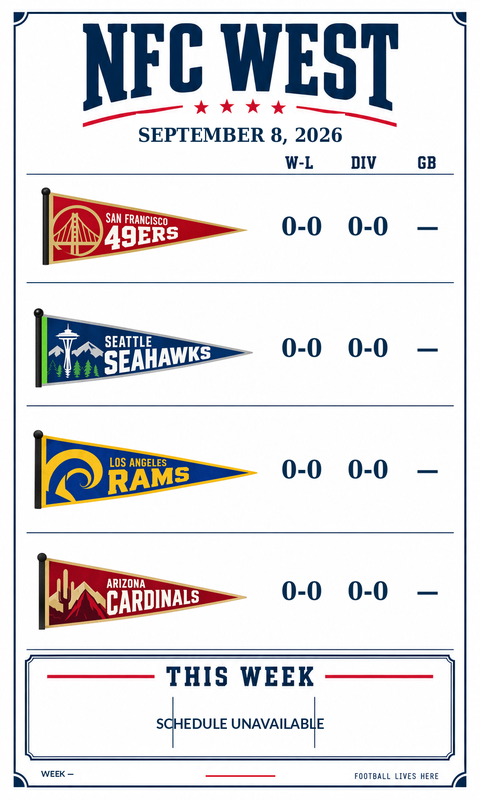
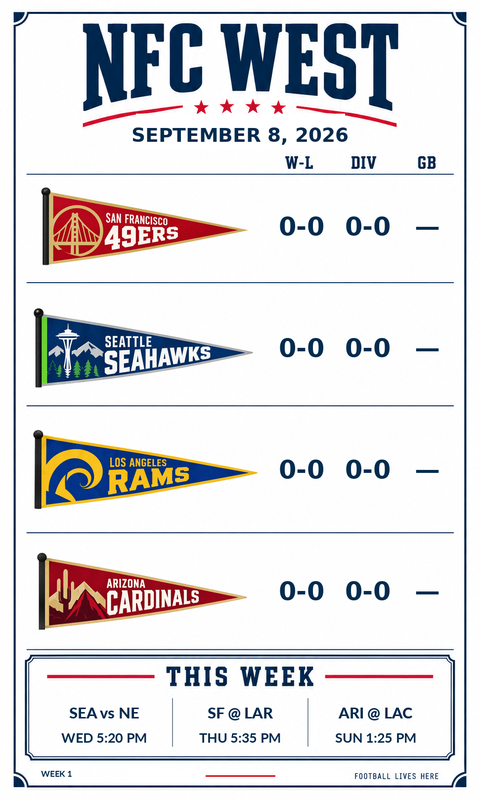
Read NFC West data from nflverse games.csv instead of ESPN
ESPN's site API returns 403 to GitHub Actions runners, so every scheduled
render fell back to zeroed standings and SCHEDULE UNAVAILABLE — the display
has never shown live data from CI.

Replace both ESPN endpoints with nflverse's games.csv, a static file served
off GitHub with no key, quota, or user-agent gate. It carries every scheduled
and completed game, so standings are now computed from finished regular-season
games rather than parsed out of a standings feed, which also removes the
alias-guessing _stat() helper and its nested-shape entry walker.

Notes:
  * nflverse abbreviates the Rams "LA"; TEAM_ALIASES maps it to the "LAR"
    the artwork and layout use.
  * gametime is a bare HH:MM in US Eastern, converted to Pacific on read.
  * The headline week is the next one with a game left to play, judged across
    the league so a week with all four clubs on bye still reports its number.
    A six-hour grace keeps games showing while they are being played.
  * January and February belong to the previous season; an unpublished season
    falls back to the newest one in the file.

Verified against real data: 2024 and 2023 final NFC West standings and
division records reproduce exactly, week selection tracks correctly from
preseason through the Super Bowl, and the live path now renders the real
Week 1 schedule.

Clubs tied on winning percentage still fall back to a fixed order rather than
the NFL's full tiebreaker sequence, unchanged from the ESPN implementation.
[…]

diff --git a/render_nfl.py b/render_nfl.py
@@ -9,13 +9,17 @@ Static artwork lives in ``assets/nfl/``. Dynamic overlays are:
   * NFC West W-L, division record, and games behind
   * the current NFL week's NFC West matchups and Pacific kickoff times
 
-Data is keyless and fetched from ESPN's public NFL JSON feeds. Set
-``NFL_SAMPLE=1`` for a deterministic 2026 Week 1 layout test.
+Schedules and results come from nflverse's ``games.csv``, a keyless static file
+served off GitHub. Standings are computed from completed regular-season games
+rather than read from a standings feed. Set ``NFL_SAMPLE=1`` for a
+deterministic 2026 Week 1 layout test.
 """
 from __future__ import annotations
 
+import csv
+import io
 import os
-from datetime import datetime
+from datetime import datetime, timedelta
 from pathlib import Path
 from zoneinfo import ZoneInfo
 
@@ -30,11 +34,17 @@ OUT = ROOT / "public" / "nfl_nfc_west.png"
 DISPLAY_TZ = ZoneInfo("America/Los_Angeles")
 DEVICE_OUTPUT_SIZE = (480, 800)
 
-ESPN_STANDINGS = "https://site.api.espn.com/apis/v2/sports/football/nfl/standings"
-ESPN_SCOREBOARD = "https://site.api.espn.com/apis/site/v2/sports/football/nfl/scoreboard"
+# nflverse publishes every scheduled and completed game in one CSV. It is a
+# plain file on GitHub, not an API, so there is no key, quota, or user-agent
+# gate to trip over on a CI runner.
+GAMES_CSV = "https://raw.githubusercontent.com/nflverse/nfldata/master/data/games.csv"
+# The file's `gametime` column is a bare HH:MM in US Eastern.
+SOURCE_TZ = ZoneInfo("America/New_York")
 
 NFC_WEST = ("SF", "SEA", "LAR", "ARI")
 TIE_ORDER = {abbr: i for i, abbr in enumerate(NFC_WEST)}
+# nflverse abbreviates the Rams "LA"; the artwork and layout use "LAR".
+TEAM_ALIASES = {"LA": "LAR"}
 
 NAVY = (4, 43, 78)
 GREY = (118, 135, 148)
@@ -49,6 +59,10 @@ STAT_X = (610, 744, 865)  # W-L, DIV, GB
 DATE_X, DATE_Y = 486, 273
 PENNANT_LEFT = 48
 PENNANT_MAX_SIZE = (487, 182)
+
+# A game still counts as "this week" for a while after kickoff so the display
+# does not roll forward mid-afternoon while games are being played.
+IN_PROGRESS_GRACE = timedelta(hours=6)
 
 
 def load_font(path: str, size: int):
@@ -70,43 +84,111 @@ def http_session() -> requests.Session:
     return s
 
 
-def _stat(entry: dict, aliases: tuple[str, ...], default=None):
-    wanted = {x.lower() for x in aliases}
-    for stat in entry.get("stats", []):
-        names = {
-            str(stat.get("name", "")).lower(),
-            str(stat.get("abbreviation", "")).lower(),
-            str(stat.get("shortDisplayName", "")).lower(),
-        }
-        if names & wanted:
-            # displayValue is preferable for records such as "2-1".
-            if stat.get("displayValue") is not None and any(
-                x in wanted for x in ("divisionrecord", "div", "division")
-            ):
-                return stat["displayValue"]
-            if stat.get("value") is not None:
-                return stat["value"]
-            return stat.get("displayValue", default)
-    return default
+def team(abbr: str) -> str:
+    return TEAM_ALIASES.get(abbr, abbr)
 
 
-def _standings_entries(node):
-    """Yield ESPN standings entries without relying on one group nesting shape."""
-    if isinstance(node, dict):
-        standings = node.get("standings")
-        if isinstance(standings, dict) and isinstance(standings.get("entries"), list):
-            yield from standings["entries"]
-        for value in node.values():
-            yield from _standings_entries(value)
-    elif isinstance(node, list):
-        for value in node:
-            yield from _standings_entries(value)
+def season_for(now: datetime) -> int:
+    """The NFL season a date belongs to; January and February are last year's."""
+    return now.year - 1 if now.month < 3 else now.year
+
+
+def _kickoff(gameday: str, gametime: str) -> datetime | None:
+    try:
+        naive = datetime.strptime(f"{gameday} {gametime}", "%Y-%m-%d %H:%M")
+    except ValueError:
+        return None
+    return naive.replace(tzinfo=SOURCE_TZ).astimezone(DISPLAY_TZ)
+
+
+def _score(value: str) -> int | None:
+    try:
+        return int(value)
+    except (TypeError, ValueError):
+        return None
+
+
+def fetch_games(season: int) -> list[dict]:
+    """Every game in `season`, normalised to the abbreviations the layout uses.
+
+    Falls back to the newest season in the file when `season` is not published
+    yet — the schedule usually lands in spring, months after the season flips.
+    """
+    response = http_session().get(GAMES_CSV, timeout=30)
+    response.raise_for_status()
+
+    by_season: dict[int, list[dict]] = {}
+    for row in csv.DictReader(io.StringIO(response.text)):
+        try:
+            row_season = int(row["season"])
+            week = int(row["week"])
+        except (KeyError, TypeError, ValueError):
+            continue
+        kickoff = _kickoff(row.get("gameday", ""), row.get("gametime", ""))
+        if kickoff is None:
+            continue
+        home, away = _score(row.get("home_score", "")), _score(row.get("away_score", ""))
+        by_season.setdefault(row_season, []).append({
+            "week": week,
+            "game_type": row.get("game_type", ""),
+            "dt": kickoff,
+            "home": team(row.get("home_team", "")),
+            "away": team(row.get("away_team", "")),
+            "home_score": home,
+            "away_score": away,
+            "played": home is not None and away is not None,
+            "div_game": row.get("div_game", "") == "1",
+        })
+
+    if not by_season:
+        return []
+    games = by_season.get(season)
+    if games is None:
+        games = by_season[max(by_season)]
+    return sorted(games, key=lambda g: g["dt"])
+
+
+def compute_standings(games: list[dict]) -> list[dict]:
+    """Build NFC West records from completed regular-season games."""
+    tally = {
+        abbr: {"abbr": abbr, "wins": 0, "losses": 0, "ties": 0,
+               "div_wins": 0, "div_losses": 0, "div_ties": 0}
+        for abbr in NFC_WEST
+    }
+
+    for game in games:
+        if game["game_type"] != "REG" or not game["played"]:
+            continue
+        sides = (
+            (game["home"], game["home_score"], game["away_score"]),
+            (game["away"], game["away_score"], game["home_score"]),
+        )
+        for abbr, scored, allowed in sides:
+            row = tally.get(abbr)
+            if row is None:
+                continue
+            if scored > allowed:
+                outcome = "wins"
+            elif scored < allowed:
+                outcome = "losses"
+            else:
+                outcome = "ties"
+            row[outcome] += 1
+            if game["div_game"]:
+                row[f"div_{outcome}"] += 1
+
+    return _finalize_standings(list(tally.values()))
+
+
+def _record(wins: int, losses: int, ties: int) -> str:
+    return f"{wins}-{losses}" + (f"-{ties}" if ties else "")
 
 
 def _finalize_standings(rows: list[dict]) -> list[dict]:
     by_team = {r["abbr"]: r for r in rows}
     for abbr in NFC_WEST:
-        by_team.setdefault(abbr, {"abbr": abbr, "wins": 0, "losses": 0, "ties": 0, "div": "0-0"})
+        by_team.setdefault(abbr, {"abbr": abbr, "wins": 0, "losses": 0, "ties": 0,
+                                  "div_wins": 0, "div_losses": 0, "div_ties": 0})
 
     def pct(r):
         games = r["wins"] + r["losses"] + r["ties"]
@@ -118,77 +200,48 @@ def _finalize_standings(rows: list[dict]) -> list[dict]:
     )
     leader = ordered[0]
     for row in ordered:
-        row["wl"] = f"{row['wins']}-{row['losses']}" + (f"-{row['ties']}" if row["ties"] else "")
+        row["wl"] = _record(row["wins"], row["losses"], row["ties"])
+        row["div"] = _record(row.get("div_wins", 0), row.get("div_losses", 0), row.get("div_ties", 0))
         gb = ((leader["wins"] - row["wins"]) + (row["losses"] - leader["losses"])) / 2.0
         row["gb"] = "—" if gb <= 0 else (str(int(gb)) if gb.is_integer() else f"{gb:.1f}")
     return ordered
 
 
-def fetch_standings(season: int) -> list[dict]:
-    if os.getenv("NFL_SAMPLE") == "1":
-        return _finalize_standings([
-            {"abbr": a, "wins": 0, "losses": 0, "ties": 0, "div": "0-0"} for a in NFC_WEST
-        ])
+def current_week(games: list[dict], now: datetime) -> int | None:
+    """The week to headline: the next one with a game left to play.
 
-    response = http_session().get(
-        ESPN_STANDINGS,
-        params={"season": season, "seasontype": 2},
-        timeout=20,
-    )
-    response.raise_for_status()
-
-    found = []
-    seen = set()
-    for entry in _standings_entries(response.json()):
-        abbr = (entry.get("team") or {}).get("abbreviation")
-        if abbr not in NFC_WEST or abbr in seen:
-            continue
-        seen.add(abbr)
-        found.append({
-            "abbr": abbr,
-            "wins": int(float(_stat(entry, ("wins", "w"), 0) or 0)),
-            "losses": int(float(_stat(entry, ("losses", "l"), 0) or 0)),
-            "ties": int(float(_stat(entry, ("ties", "t"), 0) or 0)),
-            "div": str(_stat(entry, ("divisionrecord", "div", "division"), "0-0")),
-        })
-    return _finalize_standings(found)
+    Judged across the whole league, not just the NFC West, so a week in which
+    all four clubs are on bye still reports its own number.
+    """
+    remaining = [g["week"] for g in games if g["dt"] >= now - IN_PROGRESS_GRACE]
+    if remaining:
+        return min(remaining)
+    return max((g["week"] for g in games), default=None)
 
 
-def sample_schedule():
-    return 1, [
-        {"away": "NE", "home": "SEA", "dt": datetime(2026, 9, 9, 17, 20, tzinfo=DISPLAY_TZ)},
-        {"away": "SF", "home": "LAR", "dt": datetime(2026, 9, 10, 17, 35, tzinfo=DISPLAY_TZ)},
-        {"away": "ARI", "home": "LAC", "dt": datetime(2026, 9, 13, 13, 25, tzinfo=DISPLAY_TZ)},
+def week_schedule(games: list[dict], week: int | None) -> list[dict]:
+    if week is None:
+        return []
+    division = set(NFC_WEST)
+    return [
+        g for g in games
+        if g["week"] == week and ({g["home"], g["away"]} & division)
     ]
 
 
-def fetch_week_schedule() -> tuple[int | None, list[dict]]:
-    if os.getenv("NFL_SAMPLE") == "1":
-        return sample_schedule()
-
-    response = http_session().get(ESPN_SCOREBOARD, params={"limit": 100}, timeout=20)
-    response.raise_for_status()
-    payload = response.json()
-    week = (payload.get("week") or {}).get("number")
-    games = []
-
-    for event in payload.get("events", []):
-        competition = (event.get("competitions") or [{}])[0]
-        competitors = competition.get("competitors") or []
-        by_side = {c.get("homeAway"): c for c in competitors}
-        home = ((by_side.get("home") or {}).get("team") or {}).get("abbreviation")
-        away = ((by_side.get("away") or {}).get("team") or {}).get("abbreviation")
-        if not home or not away or not ({home, away} & set(NFC_WEST)):
-            continue
-        try:
-            kickoff = datetime.fromisoformat(event["date"].replace("Z", "+00:00")).astimezone(DISPLAY_TZ)
-        except (KeyError, TypeError, ValueError):
-            continue
-        games.append({"away": away, "home": home, "dt": kickoff})
-
-    # One SF-LAR event should appear once, not once for each NFC West club.
-    unique = {(g["away"], g["home"], g["dt"].isoformat()): g for g in games}
-    return week, sorted(unique.values(), key=lambda g: g["dt"])
+def sample_season() -> tuple[list[dict], int]:
+    """Deterministic 2026 Week 1 stand-in for layout tests."""
+    games = [
+        {"week": 1, "game_type": "REG", "away": "NE", "home": "SEA",
+         "dt": datetime(2026, 9, 9, 17, 20, tzinfo=DISPLAY_TZ)},
+        {"week": 1, "game_type": "REG", "away": "SF", "home": "LAR",
+         "dt": datetime(2026, 9, 10, 17, 35, tzinfo=DISPLAY_TZ)},
+        {"week": 1, "game_type": "REG", "away": "ARI", "home": "LAC",
+         "dt": datetime(2026, 9, 13, 13, 25, tzinfo=DISPLAY_TZ)},
+    ]
+    for game in games:
+        game.update(home_score=None, away_score=None, played=False, div_game=False)
+    return games, 1
 
 
 def matchup_label(game: dict) -> str:
@@ -267,27 +320,27 @@ def render(standings: list[dict], week: int | None, games: list[dict], now: date
 
 def main():
     now = datetime.now(DISPLAY_TZ)
-    try:
-        standings = fetch_standings(now.year)
-    except Exception as exc:
-        print(f"WARNING: standings fetch failed: {exc}")
-        standings = _finalize_standings([
-            {"abbr": a, "wins": 0, "losses": 0, "ties": 0, "div": "0-0"} for a in NFC_WEST
-        ])
 
-    try:
-        week, games = fetch_week_schedule()
-    except Exception as exc:
-        print(f"WARNING: schedule fetch failed: {exc}")
-        week, games = None, []
+    if os.getenv("NFL_SAMPLE") == "1":
+        games, week = sample_season()
+    else:
+        try:
+            games = fetch_games(season_for(now))
+            week = current_week(games, now)
+        except Exception as exc:
+            print(f"WARNING: nflverse fetch failed: {exc}")
+            games, week = [], None
 
-    print(f"NFC West render {now:%Y-%m-%d %H:%M %Z}")
+    standings = compute_standings(games)
+    schedule = week_schedule(games, week)
+
+    print(f"NFC West render {now:%Y-%m-%d %H:%M %Z} — week {week or '—'}")
     for row in standings:
         print(f"  {row['abbr']:3s} {row['wl']:6s} DIV {row['div']:6s} GB {row['gb']}")
-    for game in games:
+    for game in schedule:
         print(f"  {matchup_label(game):12s} {game['dt']:%a %Y-%m-%d %-I:%M %p %Z}")
 
-    output = render(standings, week, games, now)
+    output = render(standings, week, schedule, now)
     OUT.parent.mkdir(parents=True, exist_ok=True)
     output.save(OUT, format="PNG", optimize=True)
     print(f"Wrote {OUT} ({output.size[0]}x{output.size[1]})")

diff --git a/README.md b/README.md
@@ -27,7 +27,9 @@ Output: `public/mlb_nl_west.png`
 - games behind the division leader
 - the current week's unique NFC West matchups and Pacific kickoff times
 
-Standings and schedule data come from ESPN's keyless NFL JSON feeds. The renderer keeps the MLB implementation's 971x1619 master -> 480x800 E1002 downsample path.
+Schedule and result data come from [nflverse's `games.csv`](https://github.com/nflverse/nfldata), a keyless static file served off GitHub — no API key, quota, or user-agent gate. Standings are computed from completed regular-season games rather than read from a standings feed. The renderer keeps the MLB implementation's 971x1619 master -> 480x800 E1002 downsample path.
+
+Clubs tied on winning percentage are ordered by a fixed NFC West fallback, not the NFL's full tiebreaker sequence.
 
 Artwork lives in `assets/nfl/`: `background.png` (971x1619 master) plus one 2172x724 pennant per club (`SF.png`, `SEA.png`, `LAR.png`, `ARI.png`).
 
